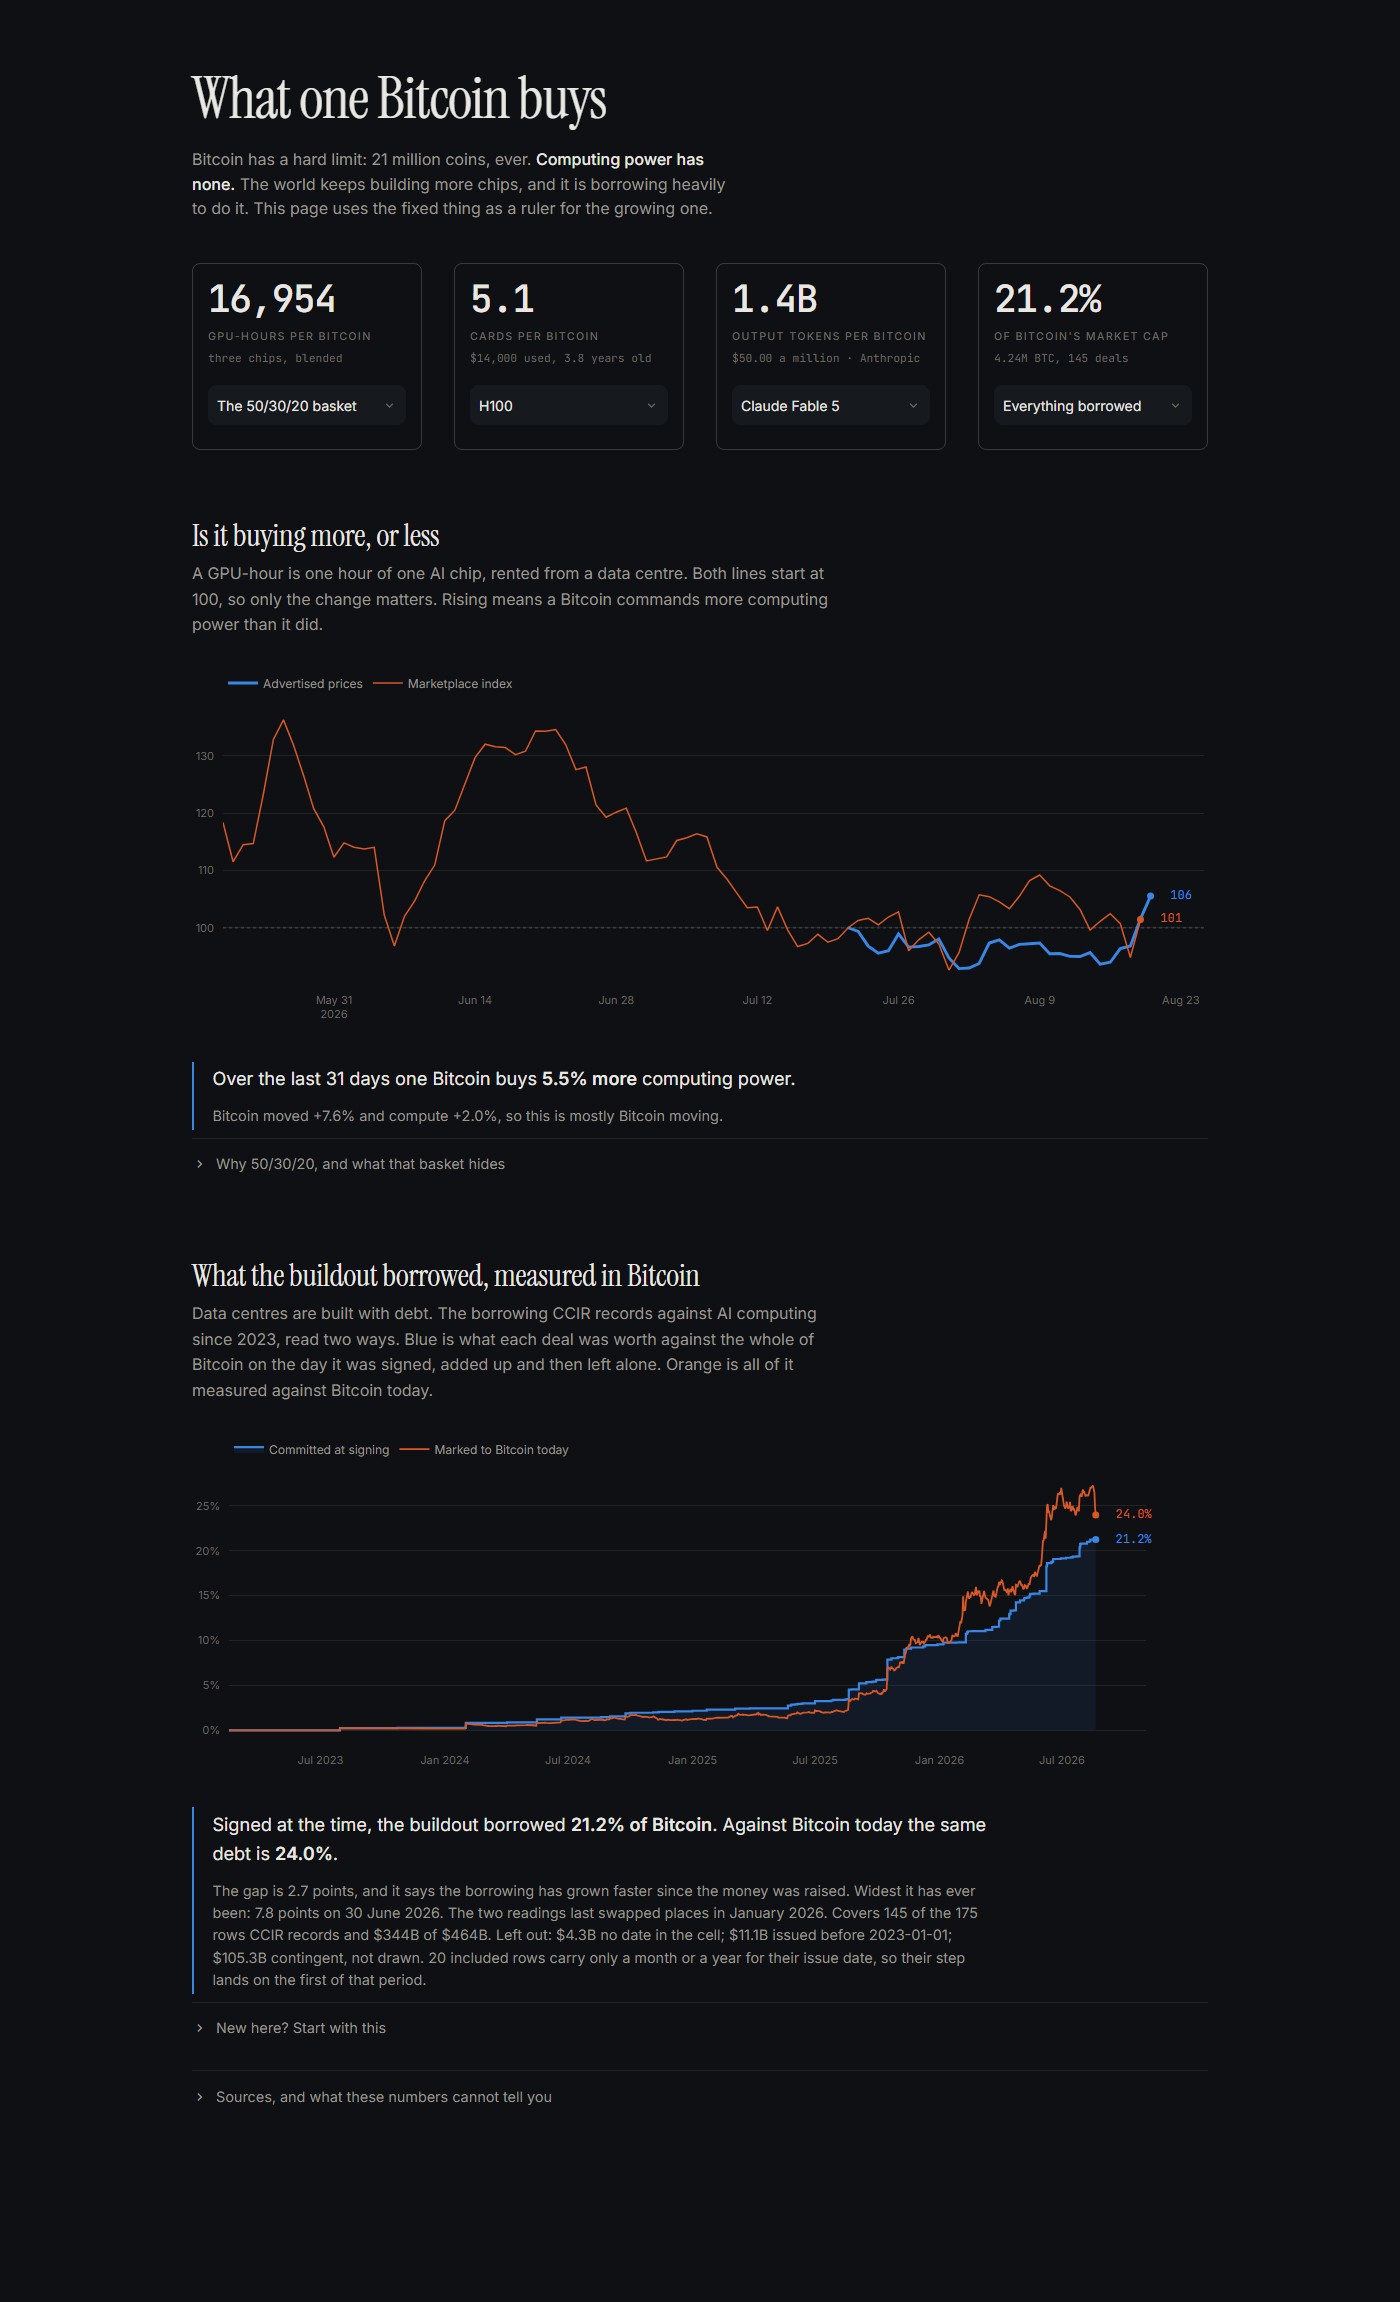
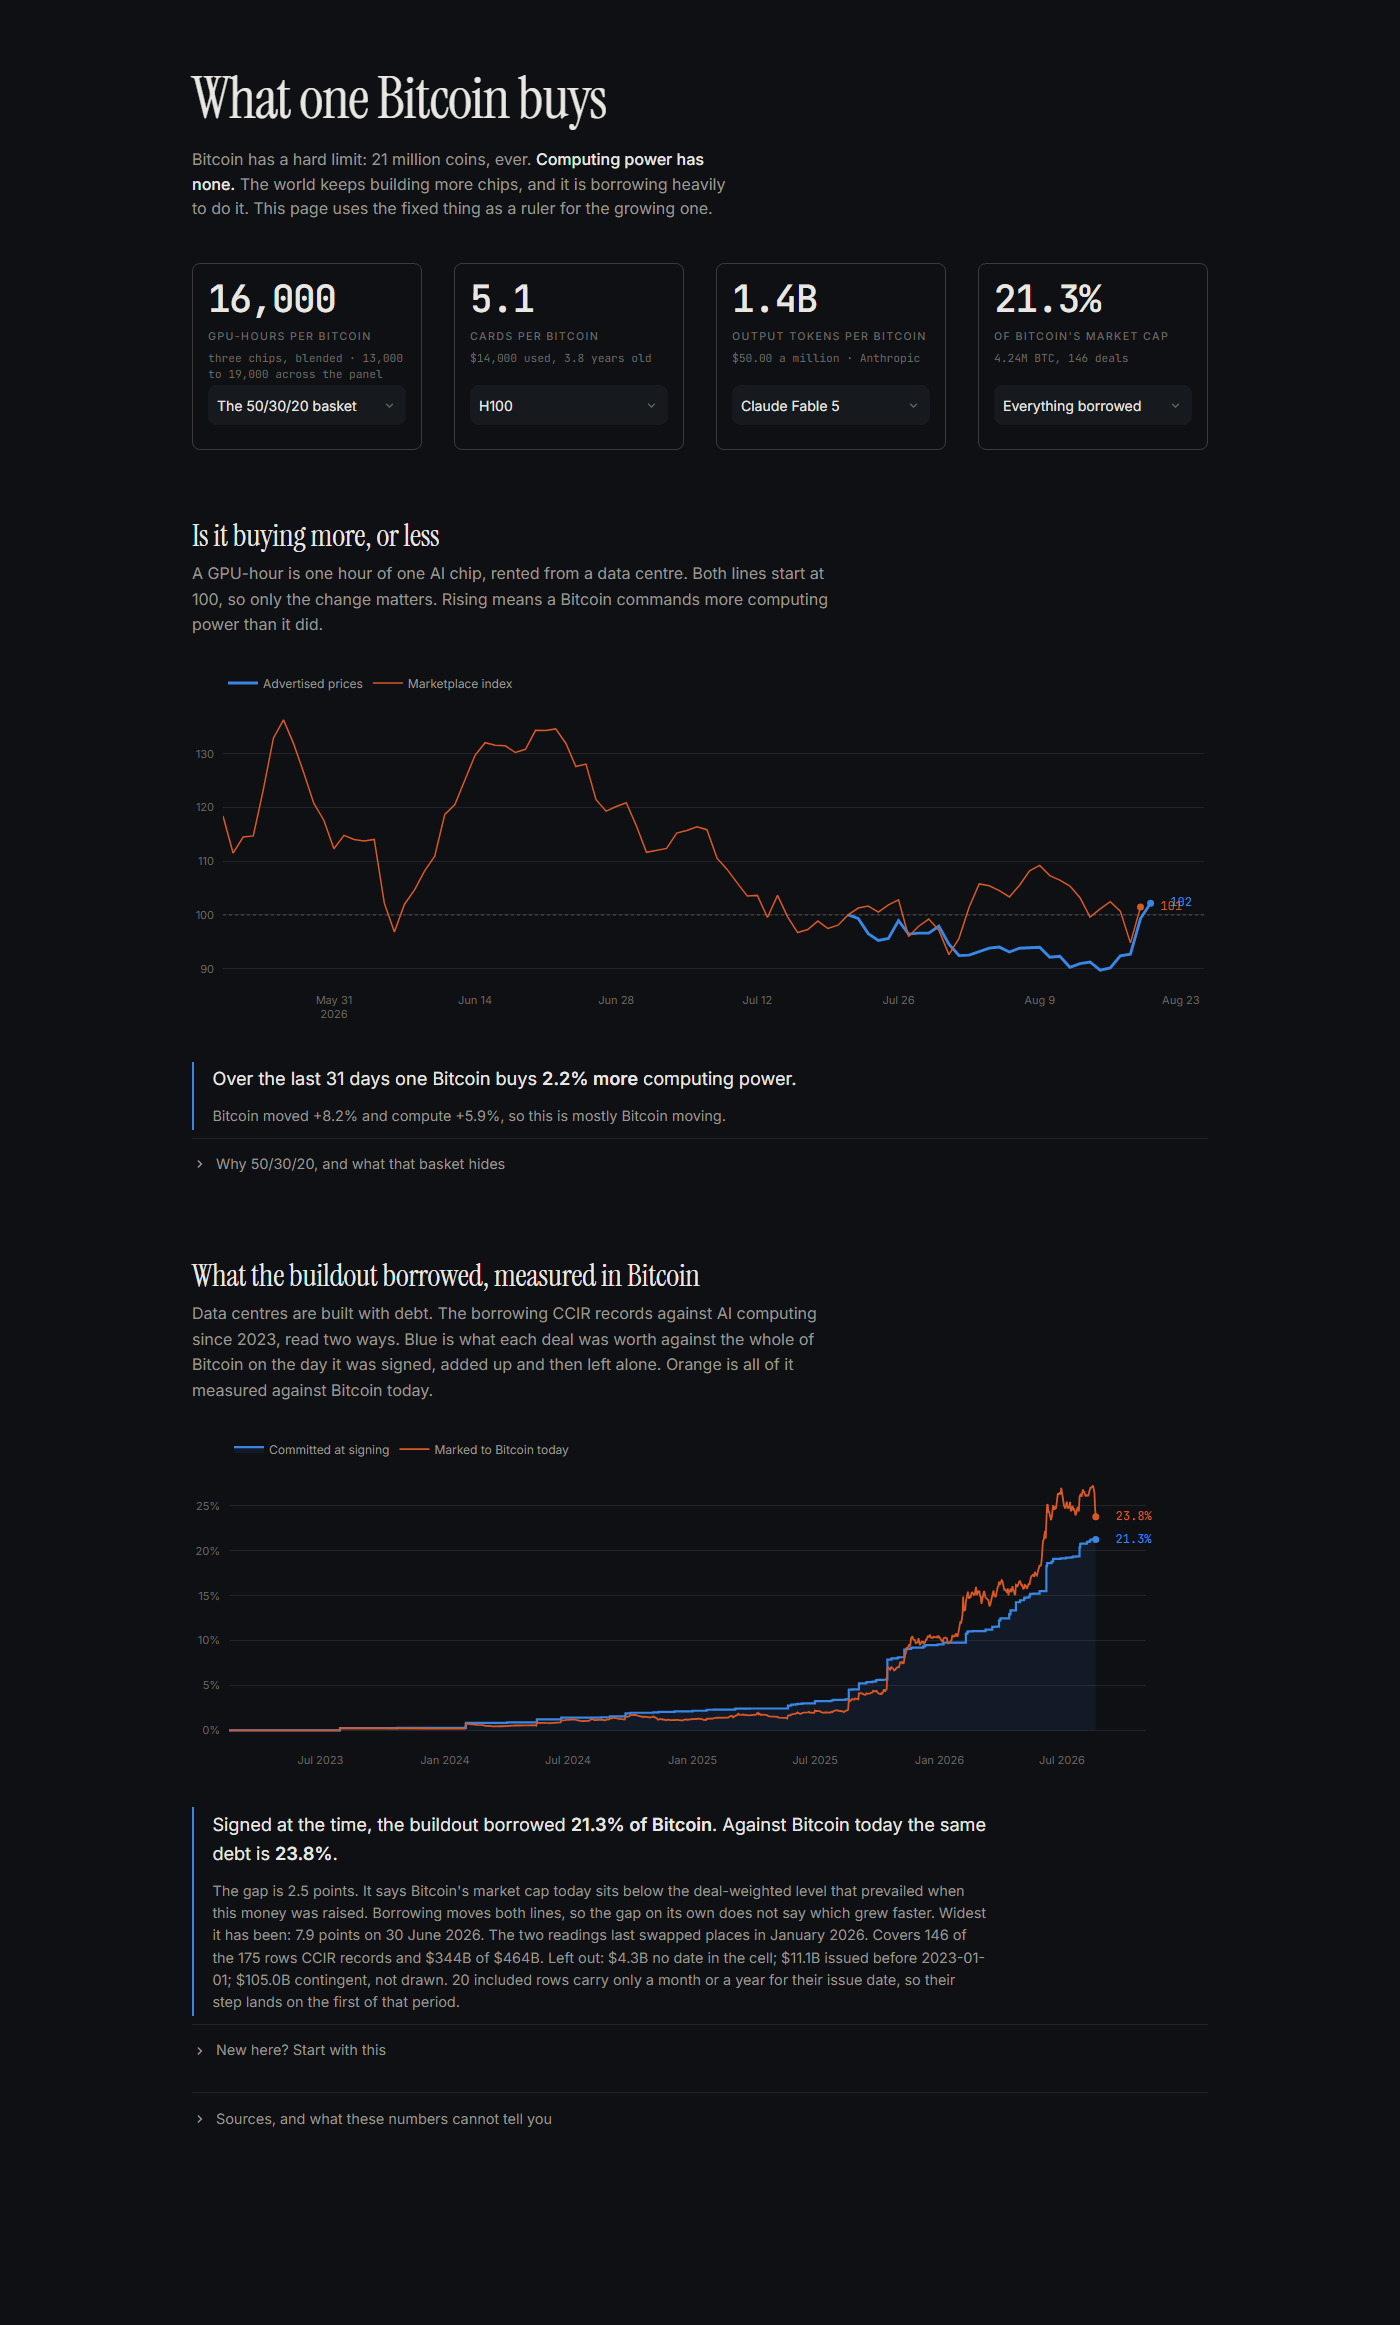
Fix three defects the review found: the surface, the classifier, the precision
**The surface did not mean what the page said.** SURFACE carried
interruptibility="ALL" while the text read "neocloud SXM on demand". Those are
different products: spot capacity can be evicted and prices about a third under
guaranteed, so the headline depended on the spot share of the panel rather than
on the price of a GPU-hour. Now pinned to GTD, which is also what CCIR uses as
its own on-demand anchor on /term.

It costs no panel depth: the guaranteed cells carry the same 22, 14 and 9
sources as the pooled ones. And it removes more dispersion than it adds. The
guaranteed basket band is $3.86-$5.50 against the pooled $2.82-$5.16, so most of
that apparent provider disagreement was the spot mix, not disagreement about the
same product. The headline moves from 17,018 to 16,000 hours.

**The contingent classifier read prose without reading type.** A regex for
"guarant|backstop" over the instrument text threw out a $300M Crusoe credit
facility described as "Goldman Sachs loan, AMD backstop": a drawn loan that
merely carries support, filed as an unfunded promise. CCIR already types every
row, and a Bond, Convertible, Credit facility or Lease is money raised whatever
its support package. Only rows typed Other can be a bare guarantee, and there
the language decides. One row of seven qualifies. The other six, a Magnetar
loan, SAFEs, promissory notes, an early raise, a private-credit facility and a
planned leveraged loan, stay drawn where they belong.
[…]

diff --git a/app_v4.py b/app_v4.py
@@ -14,6 +14,8 @@ from __future__ import annotations
 
 from datetime import timedelta
 
+import math
+
 import pandas as pd
 import plotly.graph_objects as go
 import streamlit as st
@@ -24,8 +26,15 @@ from bipp.pipeline import fetch_coinbase_btc_usd, fetch_live_dataset
 from bipp.theme import MONEY, PLOT_CONFIG, POWER, fact
 
 BASKET = {"H100": 0.5, "H200": 0.3, "B200": 0.2}
-SURFACE = dict(operator_tier="T2", form_factor="SXM",
-               interruptibility="ALL", commitment_term="OnDemand", region="ALL")
+SURFACE = dict(operator_tier="T2", form_factor="SXM", interruptibility="GTD",
+               commitment_term="OnDemand", region="ALL")
+# interruptibility="GTD", not "ALL". The page says "on demand", and pooling
+# interruptible capacity into that is a different product: spot GPUs can be
+# evicted, and they price about a third cheaper. CCIR uses guaranteed as its
+# own on-demand anchor on /term. The pooled surface also carried much of the
+# apparent panel dispersion: the guaranteed basket band is $3.86-$5.50 against
+# the pooled $2.82-$5.16, so most of that width was the spot mix, not provider
+# disagreement about the same product.
 
 
 # --------------------------------------------------------------------- data
@@ -97,6 +106,15 @@ def control(key: str, options: list[str], help_text: str) -> None:
 
 # -------------------------------------------------------------------- cards
 
+def _two_figures(value: float) -> str:
+    """16,979 -> "17,000". The panel's quartiles span nearly two to one, so five
+    significant figures assert a precision the data cannot carry."""
+    if value <= 0:
+        return "0"
+    step = 10 ** (math.floor(math.log10(value)) - 1)
+    return f"{round(value / step) * step:,.0f}"
+
+
 def card_rent(panel, series, latest_btc) -> None:
     # Curated list, same order as the card beside it. Anything CCIR cannot
     # price today simply drops out rather than showing a dead option.
@@ -104,21 +122,29 @@ def card_rent(panel, series, latest_btc) -> None:
     for label, rent, _ in ccir_pages.CHIPS:
         answer = ccir.best_rate(panel, rent) if rent else None
         if answer:
-            priced.append((label, answer[0], answer[2], answer[3]))
-    options = ["The 50/30/20 basket"] + [label for label, _, _, _ in priced]
+            priced.append((label, answer[0], answer[2], answer[3], answer[1]))
+    options = ["The 50/30/20 basket"] + [label for label, _, _, _, _ in priced]
     choice = remember("rent", options)
     if choice == "The 50/30/20 basket":
         hours, foot = series["compute_per_btc"].iloc[-1], "three chips, blended"
+        band = ccir.basket_band(ccir.select_surface(panel, **SURFACE), BASKET)
     else:
-        rate, market, sources = next(
-            (r, m, n) for label, r, m, n in priced if label == choice)
+        rate, market, sources, series_id = next(
+            (r, m, n, sid) for label, r, m, n, sid in priced if label == choice)
         hours = latest_btc / rate
         # A thin cell says so on the card. Showing a 4-source price identically
         # to a 10-source one is the part that would mislead.
         foot = (f"${rate:.2f} an hour, {sources} sources, indicative"
                 if sources < ccir.INDICATIVE_BELOW
                 else f"${rate:.2f} an hour, {market.lower()}")
-    st.markdown(fact(f"{hours:,.0f}", "GPU-hours per Bitcoin", foot), unsafe_allow_html=True)
+        band = ccir.price_band(panel, series_id)
+    # The panel's own middle half, beside the headline. CCIR publishes p25 and
+    # p75 next to every price because the headline alone hides how far providers
+    # disagree; on the basket that is roughly 15,000 to 21,000 hours.
+    if band:
+        foot += f" · {_two_figures(latest_btc / band[1])} to {_two_figures(latest_btc / band[0])} across the panel"
+    st.markdown(fact(_two_figures(hours), "GPU-hours per Bitcoin", foot),
+                unsafe_allow_html=True)
     control("rent", options,
             "Hours of one chip that a Bitcoin rents. Data centre parts price on the "
             "neocloud SXM market; consumer cards are only listed by marketplaces, so "
@@ -472,7 +498,12 @@ fixed quantity of money buys is one way of watching that race.
 
 SOURCES = """
 **Compute rates** are CCIR (ccir.io) advertised prices, US dollars per chip per
-hour, neocloud SXM on demand, published each morning. The record here runs
+hour, neocloud SXM, guaranteed on demand, published each morning. Guaranteed
+rather than pooled with interruptible capacity: spot GPUs can be evicted and
+price about a third cheaper, so blending them would make the number depend on
+the spot share of the panel. The headline is shown to two significant figures
+with the panel's own interquartile range beside it, because providers disagree
+by roughly forty percent about the same product on the same day. The record here runs
 {first} to {last}. It begins three weeks after Bitcoin's 2026-06-30 low, which is
 why the marketplace index is drawn alongside: it reaches back to 2026-05-19 and
 can see either side of that low.

diff --git a/bipp/btc.py b/bipp/btc.py
@@ -64,7 +64,21 @@ INITIAL_REWARD = 50.0
 # day's BTC it is 1.63M BTC-equivalent, which is 41% of everything the tracker
 # records since 2023. Summing it into "borrowed" overstates the stack by that
 # much, so it is separated rather than counted.
+# A row is contingent only when the instrument ITSELF is a guarantee, never
+# because a debt instrument happens to mention one. The old pattern matched any
+# occurrence of "guarant|backstop" in the prose and so threw out a $300M Crusoe
+# credit facility for saying "Goldman Sachs loan, AMD backstop" -- a drawn loan
+# that merely carries support, classified as an unfunded promise.
+#
+# CCIR types every row, and its debt types are unambiguous: a Bond, Convertible,
+# Credit facility or Lease is money raised whatever its support package. Only
+# rows it leaves as Other can be a bare guarantee, and among those the language
+# test decides. On the current ledger that is one row of seven: NVIDIA's
+# residual value guaranties. The other six are a Magnetar loan, SAFEs and
+# promissory notes, an early debt raise, a private-credit facility and a planned
+# leveraged loan, all correctly kept as drawn.
 CONTINGENT_PATTERN = r"guarant|backstop"
+DEBT_TYPES = frozenset({"bond", "convertible", "credit facility", "lease"})
 
 
 def circulating_supply(block_height: int) -> float:
@@ -118,7 +132,15 @@ def split_contingent(credit: pd.DataFrame) -> tuple[pd.DataFrame, pd.DataFrame]:
     """
     if credit.empty or "instrument" not in credit.columns:
         return credit, credit.iloc[0:0]
-    flag = credit["instrument"].astype(str).str.contains(CONTINGENT_PATTERN, case=False, na=False)
+    names_a_guarantee = credit["instrument"].astype(str).str.contains(
+        CONTINGENT_PATTERN, case=False, na=False)
+    if "type" in credit.columns:
+        is_debt = credit["type"].astype(str).str.strip().str.lower().isin(DEBT_TYPES)
+    else:
+        # No type column: fall back to language alone rather than guess, and
+        # accept that a supported loan may be misfiled. Reported, not silent.
+        is_debt = pd.Series(False, index=credit.index)
+    flag = names_a_guarantee & ~is_debt
     return credit[~flag].copy(), credit[flag].copy()
 
 

diff --git a/bipp/ccir.py b/bipp/ccir.py
@@ -159,6 +159,44 @@ def chip_series(panel: pd.DataFrame, chip: str) -> pd.DataFrame:
                    "promotion_status", "n_sources", "series_id"]].reset_index(drop=True)
 
 
+def price_band(panel: pd.DataFrame, series_id: str) -> tuple[float, float] | None:
+    """Latest interquartile range for one series, as (p25, p75).
+
+    CCIR publishes p25 and p75 beside every headline precisely because the
+    headline alone hides how far providers disagree. A page quoting the headline
+    to five figures while the quartiles span nearly two to one is claiming
+    precision the panel does not carry.
+    """
+    rows = panel[panel["series_id"] == series_id].sort_values("as_of_date")
+    if rows.empty:
+        return None
+    latest = rows.iloc[-1]
+    p25, p75 = latest.get("price_p25"), latest.get("price_p75")
+    if pd.isna(p25) or pd.isna(p75):
+        return None
+    return float(p25), float(p75)
+
+
+def basket_band(surface: pd.DataFrame, weights: dict[str, float]) -> tuple[float, float] | None:
+    """The basket priced at every component's p25, and at every component's p75.
+
+    Not a confidence interval: it assumes the components move together, which
+    is the widest honest reading rather than a distributional claim. It bounds
+    what the same basket would cost across the panel's middle half.
+    """
+    low = high = 0.0
+    for chip, weight in weights.items():
+        try:
+            series = chip_series(surface, chip).sort_values("as_of_date").iloc[-1]
+        except ValueError:
+            return None
+        if pd.isna(series.get("price_p25")) or pd.isna(series.get("price_p75")):
+            return None
+        low += float(series["price_p25"]) * weight
+        high += float(series["price_p75"]) * weight
+    return low, high
+
+
 def build_basket(panel: pd.DataFrame, weights: dict[str, float]) -> pd.DataFrame:
     """Weighted composite across chips on one surface. Inner join on date."""
     frames = []

diff --git a/tests/test_btc.py b/tests/test_btc.py
@@ -318,3 +318,38 @@ def test_debt_coverage_names_a_reason_for_every_exclusion():
     cov = btc.debt_coverage(credit, since="2023-01-01")
     reasons = {r for r, (n, _) in cov["excluded"].items() if n}
     assert reasons == {"no date in the cell", "issued before 2023-01-01"}
+
+
+def test_split_contingent_keeps_a_loan_that_merely_mentions_a_backstop():
+    """The defect this replaces: a $300M Crusoe credit facility described as
+    "Goldman Sachs loan, AMD backstop" was classified as an unfunded promise
+    and removed from borrowing entirely."""
+    credit = pd.DataFrame({
+        "issuer": ["Crusoe", "NVIDIA"],
+        "instrument": ["Goldman Sachs loan, AMD backstop", "Residual value guaranties"],
+        "type": ["Credit facility", "Other"],
+        "size_musd": [300.0, 105_000.0],
+        "issued": ["2026-02-19", "2026-08-17"],
+    })
+    drawn, contingent = btc.split_contingent(credit)
+    assert list(drawn["issuer"]) == ["Crusoe"]
+    assert list(contingent["issuer"]) == ["NVIDIA"]
+
+
+@pytest.mark.parametrize("debt_type", ["Bond", "Convertible", "Credit facility", "Lease"])
+def test_a_typed_debt_instrument_is_never_contingent(debt_type):
+    credit = pd.DataFrame({
+        "issuer": ["X"], "instrument": ["notes with a parent guarantee"],
+        "type": [debt_type], "size_musd": [100.0], "issued": ["2025-01-01"],
+    })
+    drawn, contingent = btc.split_contingent(credit)
+    assert len(drawn) == 1 and contingent.empty
+
+
+def test_split_contingent_falls_back_to_language_without_a_type_column():
+    credit = pd.DataFrame({
+        "issuer": ["X"], "instrument": ["Residual value guaranties"],
+        "size_musd": [100.0], "issued": ["2025-01-01"],
+    })
+    _, contingent = btc.split_contingent(credit)
+    assert len(contingent) == 1

diff --git a/tests/test_ccir.py b/tests/test_ccir.py
@@ -299,3 +299,23 @@ def test_best_rate_reports_panel_depth():
 def test_indicative_threshold_matches_ccir_guidance():
     # CCIR's methodology says cells below five sources read as indicative.
     assert ccir.INDICATIVE_BELOW == 5
+
+
+def test_basket_band_brackets_the_headline():
+    """The p25-weighted basket must be cheaper than the headline, and the
+    p75-weighted dearer. If not, the band is not a band."""
+    panel = make_ladder_panel()
+    surface = ccir.select_surface(panel, operator_tier="T2", form_factor="SXM",
+                                  interruptibility="ALL", commitment_term="OnDemand",
+                                  region="ALL")
+    weights = {"H100": 1.0}
+    band = ccir.basket_band(surface, weights)
+    if band is None:
+        pytest.skip("fixture carries no quartiles")
+    low, high = band
+    headline = ccir.chip_series(surface, "H100").sort_values("as_of_date").iloc[-1]["price_headline"]
+    assert low <= headline <= high
+
+
+def test_price_band_returns_none_for_an_unknown_series():
+    assert ccir.price_band(make_ladder_panel(), "CRI-NOPE-000") is None
